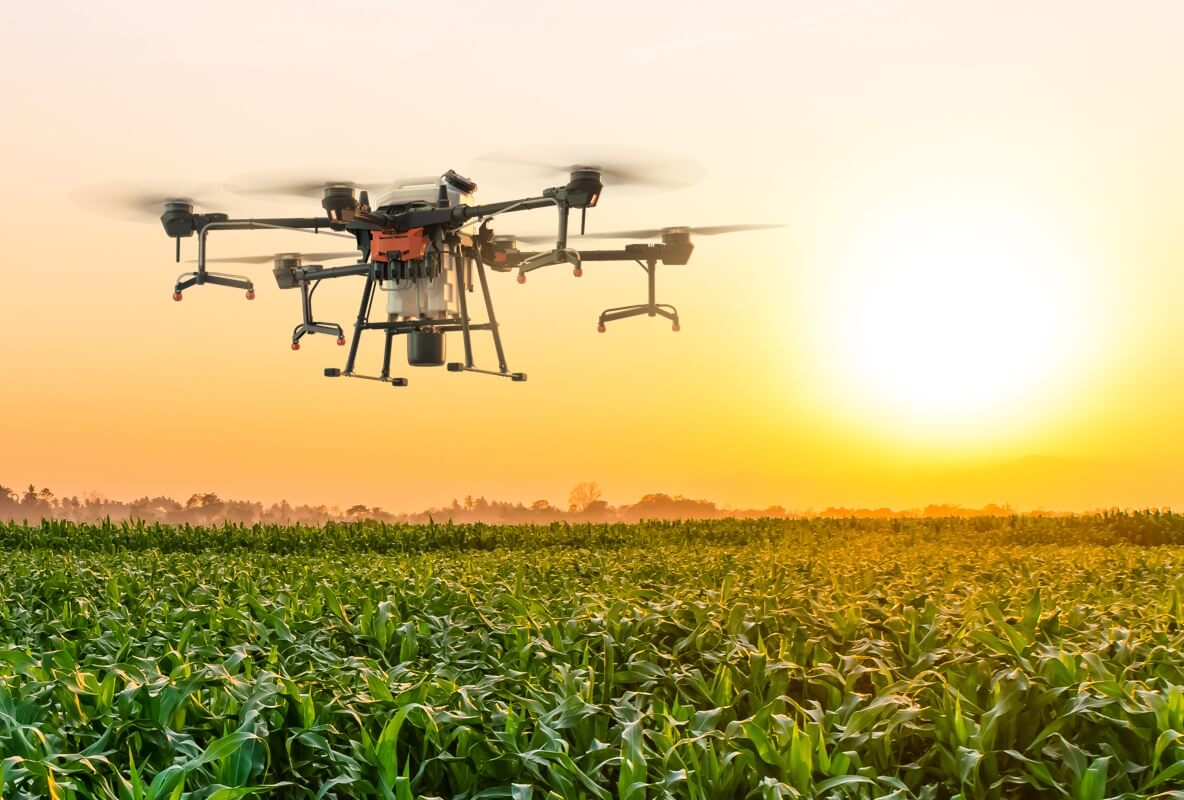
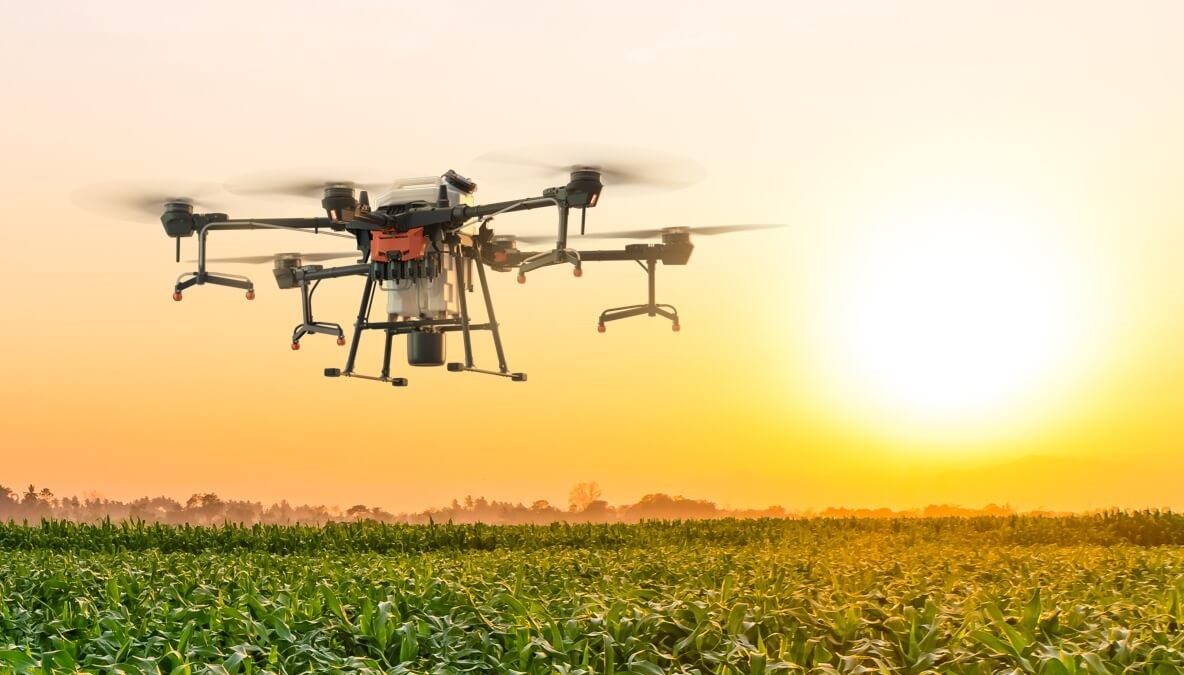
bootstrap

diff --git a/index.html b/index.html
@@ -74,28 +74,28 @@
                     <div class="container">
                         <div class="row">
                             <div class="col-sm-6">
-                                <img src="images/drone-entrega.jpg" width="435" height="270" alt="drone-entrega">
+                                <img src="images/drone-entrega.jpg" width="100%" alt="drone-entrega">
                                 <p>Oferecemos o serviço de <span class="text-primary">Taxi-Drone</span>
                                     para todos os bairros da cidade metropolitana de San Salads. Serviço
                                     seguro e aceita todos os tipos de objetos.
                                 </p>
                             </div>
                             <div class="col-sm-6">
-                                <img src="images/drone-pet.jpg" width="435" height="270" alt="drone-pet">
+                                <img src="images/drone-pet.jpg" width="100%" alt="drone-pet">
                                 <p>Serviço de <span class="text-primary">Pet-Drone</span> está sendo oferecido dentro de todas as normas
                                     regularizadas pelo UXE902I. É necessário que o pet esteja dentro de uma
                                     caixa ou bolsa de transporte ou não tenha medo de altura.
                                 </p>
                             </div>
                             <div class="col-sm-6">
-                                <img src="images/drone-espiao.jpg" width="435" height="270" alt="drone-espião">
+                                <img src="images/drone-espiao.jpg" width="100%" alt="drone-espião">
                                 <p>O <span class="text-primary">Spy-Drone</span> é um serviço de espionagem disponível somente durante a noite.
                                     Seu voo é autorizado apenas em bairros específicos. Para mais detalhes
                                     sobre o seu uso, ligue para a central.
                                 </p>
                             </div>
                             <div class="col-sm-6">
-                                <img src="images/drone-agricultura.jpg" width="435" height="270" alt="drone-agricultura">
+                                <img src="images/drone-agricultura.jpg" width="100%" alt="drone-agricultura">
                                 <p>Drones especializados em irrigação também estão disponíveis,
                                     assim como os de detecção de falhas e entre outras atividades ligadas a
                                     agricultura. Conheça o nosso <span class="text-primary">Agri-Drone</span>.

diff --git a/styles/style.css b/styles/style.css
@@ -23,16 +23,11 @@ h3 {
 }
 
 #quemsomos h5 {
-    margin: 0 28rem;
+    min-width: 20rem;
 }
 
 /*3- Seção de "Benefícios"*/
 /*4- Seção de "Serviços"*/
-#servicos .servicos p {
-    height: 5.8rem;
-    margin: 1rem 6rem;
-}
-
 /*5- Seção de "Tipos"*/
 #tipos .tipos p {
     height: 5.8rem;
